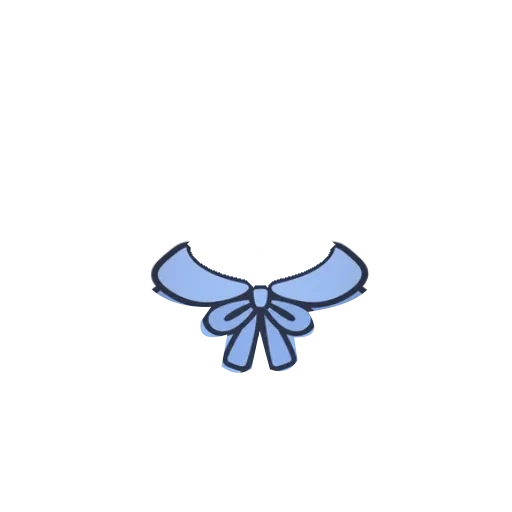
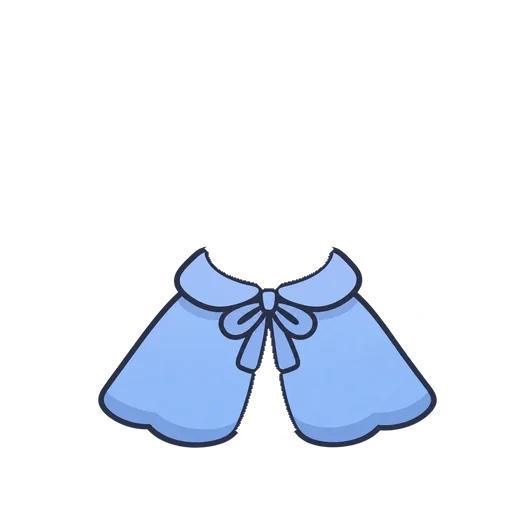
Moka pelerinleri: tam pelerin (magaza resminden), koyu ic astar ve yaka ici kesildi; on kirpma maskesi kaldirildi
Claude-Session: https://claude.ai/code/session_01SaDd7Zv9GJueYhYhy1FRtz

Changed region(s): [[0.1875, 0.4688, 0.875, 0.875]]

diff --git a/src/components/MokaRig.tsx b/src/components/MokaRig.tsx
@@ -137,8 +137,6 @@ const HEAD_FIT: Record<string, HeadFit> = {
 const GARMENT_FRONT: Partial<Record<string, string>> = {
   govde_kazak: 'M128 298 Q255 325 378 299 L422 465 H88Z',
   govde_battaniye: 'M90 268 Q165 260 197 282 Q250 301 303 279 Q355 256 425 268 L425 448 Q255 470 90 448Z',
-  govde_kral_pelerini: 'M152 250 Q254 288 378 250 L383 359 Q348 410 343 455 H177 Q163 408 133 360Z',
-  govde_pelerin: 'M142 250 Q256 300 378 250 L378 383 H142Z',
   govde_yagmurluk: 'M104 292 Q170 255 211 273 Q257 291 298 271 Q349 255 410 291 L426 458 H88Z',
 };
 

diff --git a/scripts/make-moka-worn-clothes.py b/scripts/make-moka-worn-clothes.py
@@ -28,9 +28,10 @@ CUTS = {
     'govde_kaplan': {'regions': [2, 3]},
     'govde_kazak': {'seeds': [(125, 330, 18), (395, 330, 18)]},
     'govde_kimono': {'seeds': [(115, 330, 10), (407, 330, 10)]},
-    'govde_kral_pelerini': {'seeds': [(255, 270, 40)]},
+    # Pelerinler tam pelerin olarak giyilir: mağaza resminden (assets/moka/esya) üretilir.
+    'govde_kral_pelerini': {'from': 'assets/moka/esya', 'seeds': [(265, 290, 30), (265, 380, 30)]},
     'govde_mont': {'seeds': [(257, 262, 18), (120, 335, 18), (400, 335, 18)]},
-    'govde_pelerin': {'regions': [2]},
+    'govde_pelerin': {'from': 'assets/moka/esya', 'regions': [2, 11]},
     'govde_pijama': {'regions': [2, 5, 6]},
     'govde_pilot': {'regions': [5, 7]},
     'govde_pizza': {'regions': [1, 11, 12]},
@@ -82,7 +83,7 @@ def cut(a, spec):
 
 def main(src, dst):
     for name, spec in CUTS.items():
-        a = np.array(Image.open(os.path.join(src, name + '.webp')).convert('RGBA')).astype(float)
+        a = np.array(Image.open(os.path.join(spec.get('from', src), name + '.webp')).convert('RGBA')).astype(float)
         Image.fromarray(cut(a, spec).clip(0, 255).astype('uint8')).save(os.path.join(dst, name + '.webp'), quality=90, method=6, alpha_quality=100)
         print('ok', name)
 
